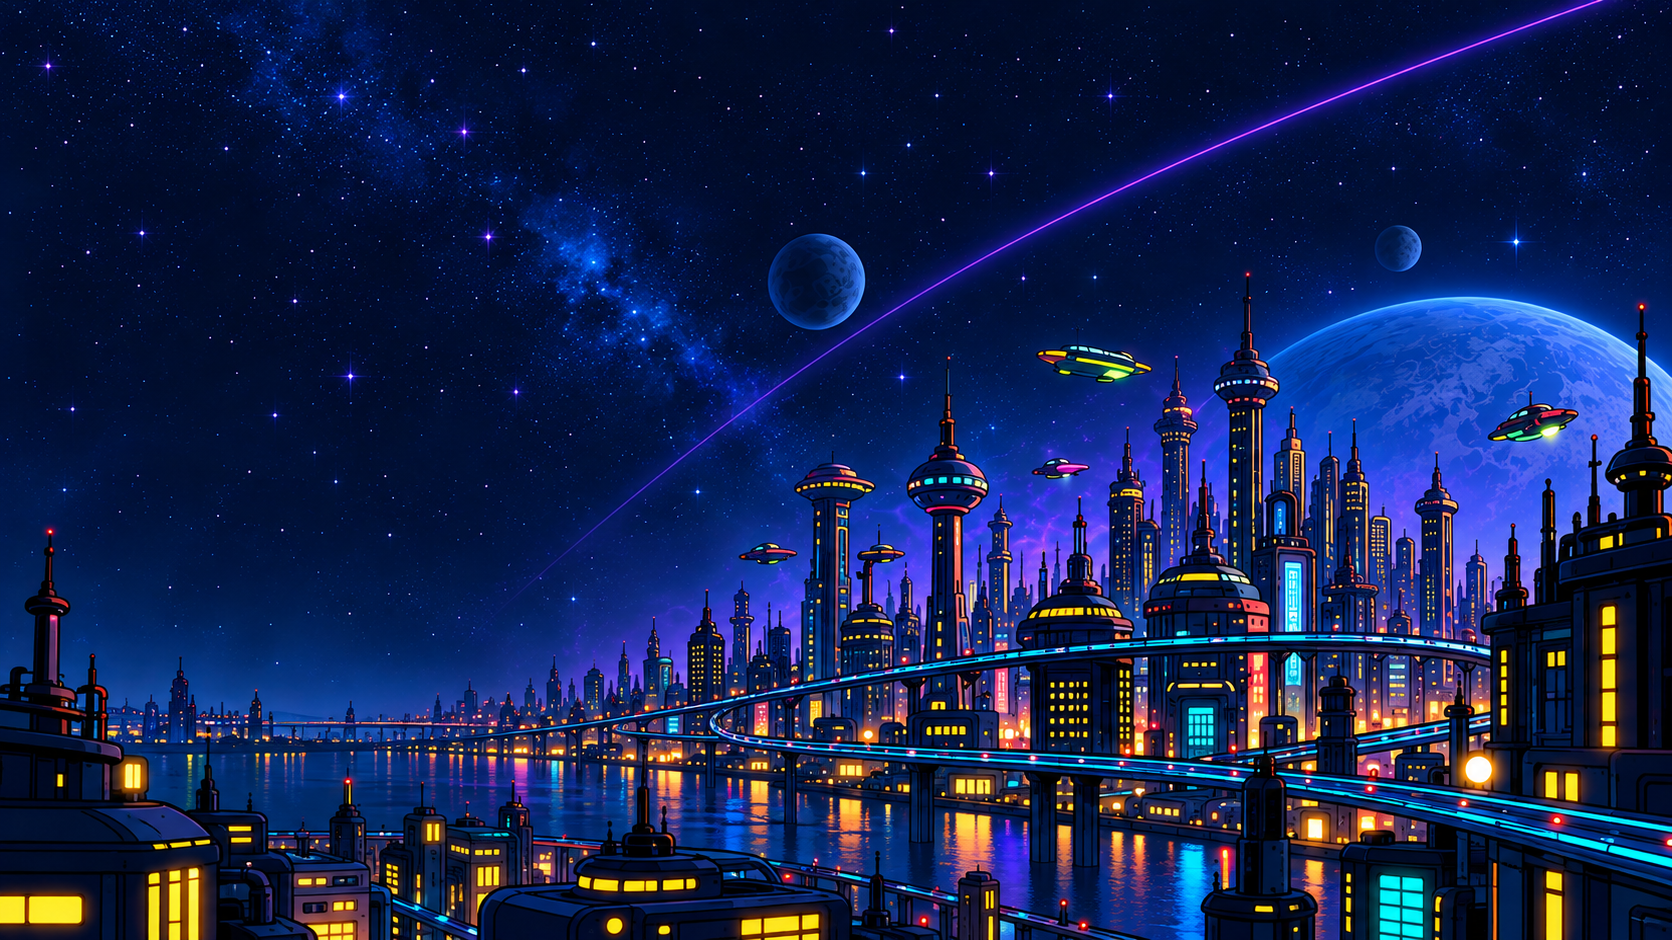
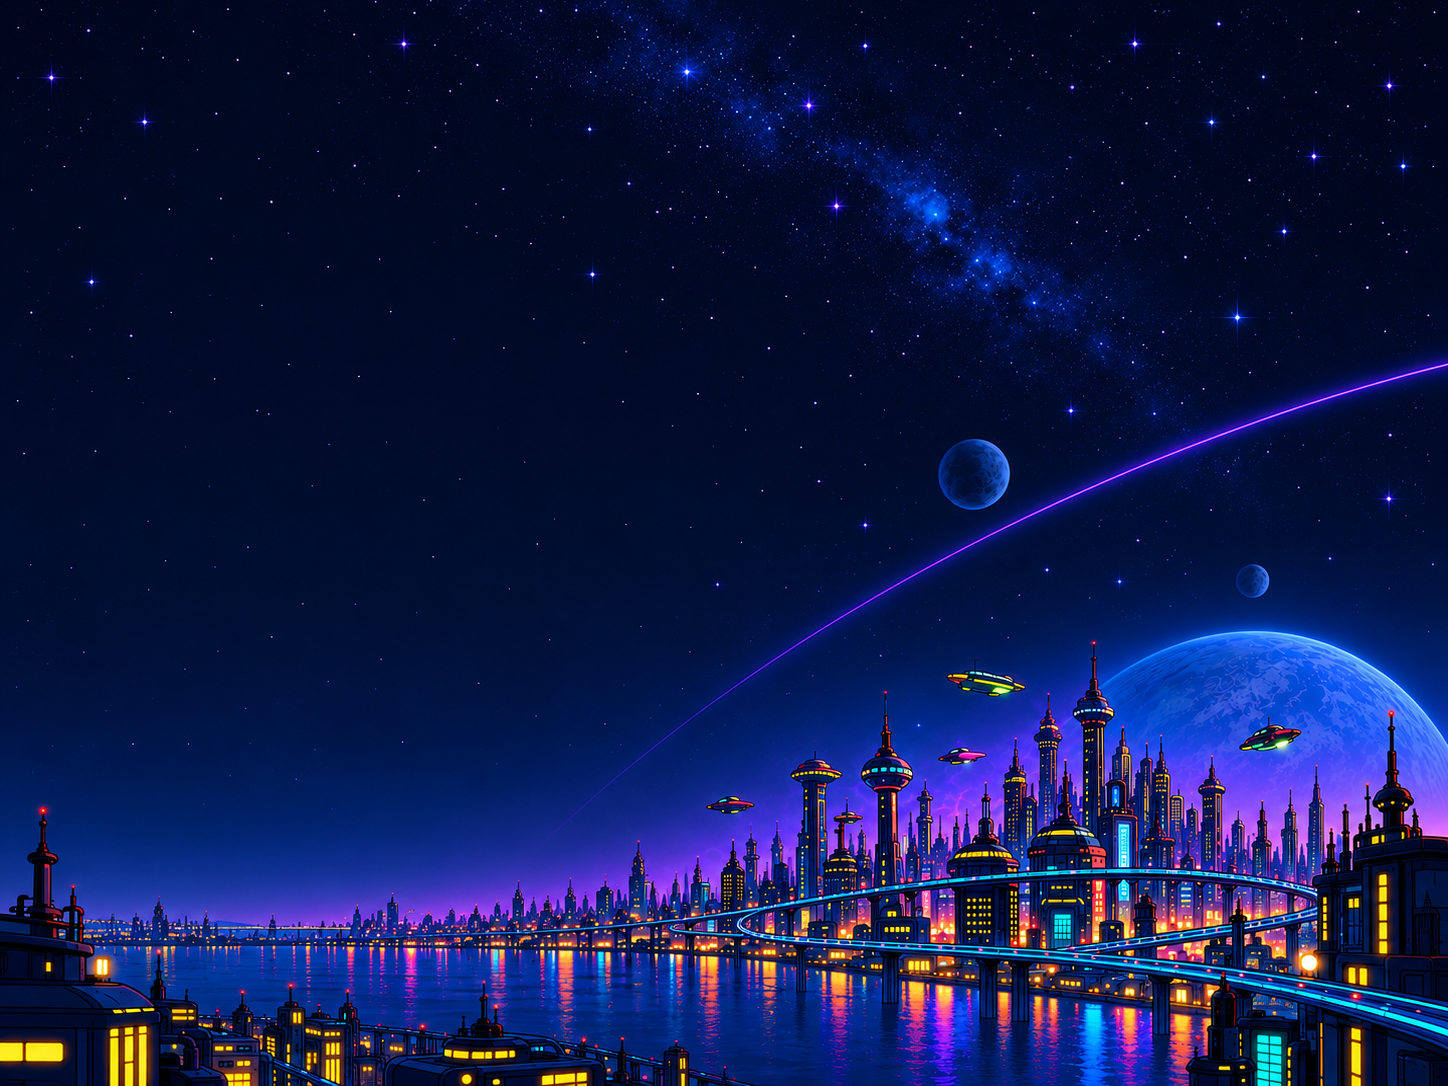
Feat: header explore

diff --git a/css/explore.css b/css/explore.css
@@ -1,0 +1,126 @@
+
+/* ////////////////// MOBILE DESIGN //////////////////// */
+
+
+/* -------------------------------------------
+|                Header Styles               |
+----------------------------------------------*/
+
+.header--explore{
+    background-image: url("../assets/img/encabezado.png");
+    min-height: 330px;
+    background-size: cover;
+    background-position: center;
+    background-repeat: no-repeat;
+}
+
+.explore-intro{
+    padding: 2px 8px 24px 24px;
+}
+
+.explore-intro__title{
+    font-family: var(--font-primary);
+    font-size: 2.5rem;
+    font-weight: 800;
+    line-height: 1.1;
+    color: var(--color-text);
+}
+
+.explore-intro__highlight{
+    display: block;
+    color: var(--color-secondary);
+}
+
+.explore-intro__description{
+    margin-top: 12px;
+    max-width: 260px;
+    font-size: 0.95rem;
+    line-height: 1.5;
+    color: var(--color-text-secondary);
+    text-shadow: 0 2px 6px rgba(4,14,35,0.8);
+}
+
+
+
+/* -------------------------------------------
+|                 Nav Styles                 |
+----------------------------------------------*/
+
+
+
+/* -------------------------------------------
+|                Main Styles                  |
+----------------------------------------------*/
+
+
+
+/* -------------------------------------------
+|                   Footer                    |
+----------------------------------------------*/
+
+
+
+
+/*  /////////////////////////////////////////////////////////// 
+   //////////////   DESIGNS OF OTHER DEVICES   ///////////////
+/* ////////////////////////////////////////////////////////// */
+
+
+@media (min-width:768px){
+
+
+/* -------------------------------------------
+|                Header Styles               |
+----------------------------------------------*/
+
+.header--explore{
+    background-image: url(../assets/img/encabezado_web.png);
+    min-height: 300px;
+    background-size: cover;
+    background-position: center 30%;
+
+}
+
+.explore-intro{
+    padding: 8px 24px 24px;
+}
+
+.explore-intro__title{
+    font-size: 3.5rem;
+}
+
+.explore-intro__highlight{
+    display: inline;
+}
+
+.explore-intro__description{
+    max-width: none;
+    font-size: 1.1rem;
+}
+
+
+/* -------------------------------------------
+|                 Nav Styles                 |
+----------------------------------------------*/
+
+
+
+
+/* -------------------------------------------
+|                Main Styles                  |
+----------------------------------------------*/
+
+
+
+/* -------------------------------------------
+|                   Footer                    |
+----------------------------------------------*/
+
+
+}
+
+
+
+
+
+

diff --git a/explore.html b/explore.html
@@ -14,7 +14,7 @@
 </head>
 <body>
 
-    <header class="header">
+    <header class="header header--explore">
         <nav class="nav" aria-label="navegación principal">
 
             <a class="nav__brand" href="./index.html">
@@ -44,18 +44,34 @@
             </ul>
 
         </nav>
+
+        <div class="explore-intro">
+
+            <h1 class="explore-intro__title">
+                ARCHIVO
+                <span class="explore-intro__highlight">INTERGALÁCTICO</span>
+            </h1>
+
+            <p class="explore-intro__description">Conoce a los habitantes del universo Futurama</p>
+
+        </div>
         
     </header>
 
     <main class="main">
 
-        <section class="hero">
-            <!-- Portada con imagen, título y botones -->
+        <section class="filters" aria-label="Filtros de personajes">
+            <!-- Buscador y filtros -->
         </section>
 
-        <section class="features">
-            <!-- Descubre, Colecciona y Sorpréndete -->
+        <section class="characters" aria-label="Personajes">
+            <!-- Tarjetas -->
         </section>
+
+        <nav class="pagination" aria-label="Paginación de personajes">
+            <!-- Paginación -->
+        </nav>
+      
 
     </main>
 
